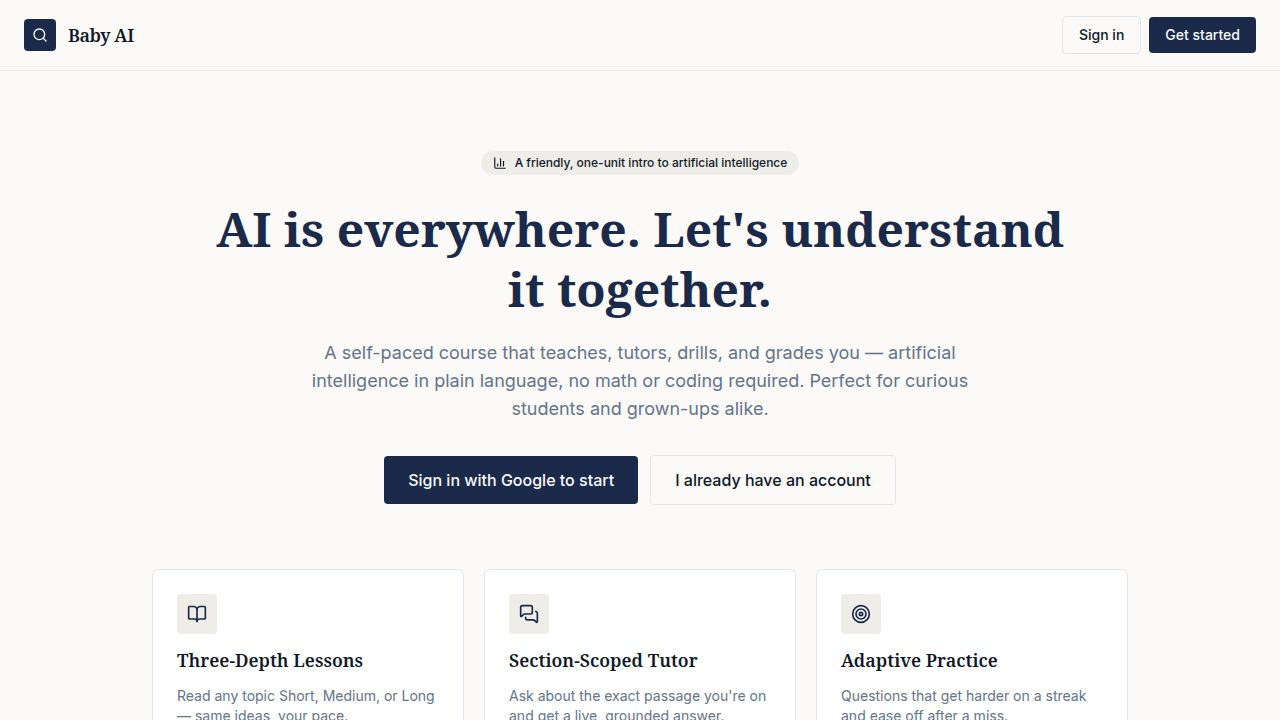
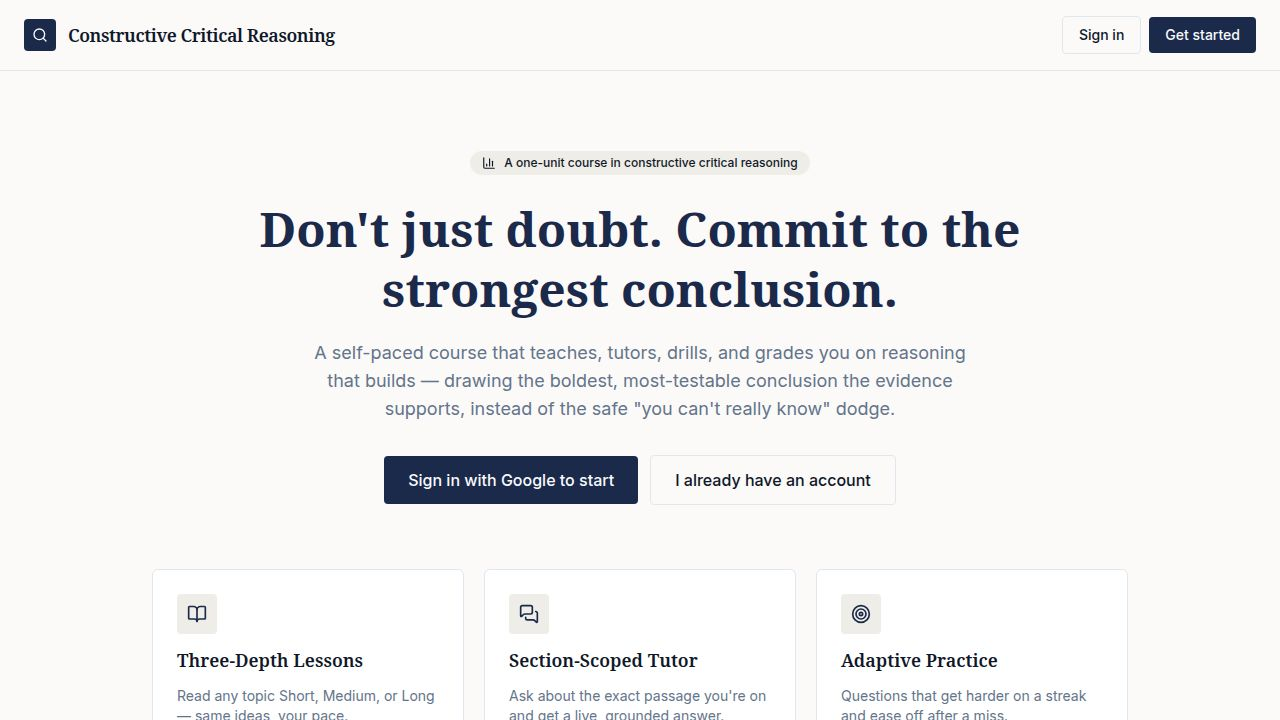
Published your App
Replit-Commit-Author: Deployment
Replit-Commit-Session-Id: 467d5729-93c7-433a-bc70-5a94cd285be4
Replit-Commit-Checkpoint-Type: full_checkpoint
Replit-Commit-Event-Id: c4dfff90-81ff-4677-9fb8-b391cf7ffa50
Replit-Commit-Screenshot-Url: https://storage.googleapis.com/screenshot-production-us-central1/ec074a15-560e-43bb-bbd8-61a434d20498/467d5729-93c7-433a-bc70-5a94cd285be4/MHw7Gyp
Replit-Commit-Deployment-Build-Id: fa62ca4a-7b2a-4fba-9be9-387c28d63195

Changed region(s): [[0.1562, 0.275, 0.8438, 0.5806], [0.375, 0.2139, 0.625, 0.2444], [0.0312, 0.0306, 0.2812, 0.0611]]

diff --git a/artifacts/qr-course/src/pages/LectureView.tsx b/artifacts/qr-course/src/pages/LectureView.tsx
@@ -2,6 +2,7 @@ import { useEffect, useMemo, useRef, useState } from "react";
 import { useQueryClient } from "@tanstack/react-query";
 import {
   useGetLecture,
+  useGetWeek,
   useRewriteLecture,
   useClearLectureRewrite,
   useAskTutor,
@@ -20,7 +21,7 @@ import { AnswerInput } from "@/components/AnswerInput";
 import { MathKeyboard, insertAtTextareaCursor } from "@/components/MathKeyboard";
 import { StarterQuestionCard } from "@/components/StarterQuestionCard";
 import { Button } from "@/components/ui/button";
-import { ArrowLeft, MessageSquare, Sparkles, Send, X, RefreshCw, CheckCircle2, XCircle, Wand2, RotateCcw } from "lucide-react";
+import { ArrowLeft, ArrowRight, MessageSquare, Sparkles, Send, X, RefreshCw, CheckCircle2, XCircle, Wand2, RotateCcw } from "lucide-react";
 
 type ChatMsg = { role: "user" | "tutor"; text: string };
 
@@ -28,6 +29,24 @@ export default function LectureView() {
   const params = useParams();
   const lectureId = Number(params.lectureId);
   const { data: lecture, isLoading } = useGetLecture(lectureId);
+
+  // Sibling lectures (for prev/next navigation within the unit)
+  const { data: week } = useGetWeek(lecture?.weekNumber ?? 0, {
+    query: {
+      enabled: lecture?.weekNumber != null,
+      queryKey: ["week", lecture?.weekNumber ?? 0],
+    },
+  });
+  const { prevLecture, nextLecture, navReady } = useMemo(() => {
+    const list = week?.lectures ?? [];
+    const idx = list.findIndex((l) => l.id === lectureId);
+    if (idx === -1) return { prevLecture: null, nextLecture: null, navReady: false };
+    return {
+      prevLecture: idx > 0 ? list[idx - 1] : null,
+      nextLecture: idx < list.length - 1 ? list[idx + 1] : null,
+      navReady: true,
+    };
+  }, [week?.lectures, lectureId]);
 
   // shared selected-text state (used by both Tutor and Practice)
   const [selectedText, setSelectedText] = useState("");
@@ -387,6 +406,67 @@ export default function LectureView() {
                   Tip: highlight any passage above to ask the tutor about it, or to generate practice problems specifically on what you selected.
                 </div>
               </div>
+
+              {/* Prev / next lecture navigation */}
+              {navReady && (
+              <nav className="mt-6 grid grid-cols-2 gap-3">
+                {prevLecture ? (
+                  <Link href={`/lectures/${prevLecture.id}`} className="block">
+                    <div
+                      className="group h-full rounded-lg border border-border bg-card hover:border-primary/50 transition-colors shadow-sm p-4 flex items-center gap-3"
+                      data-testid="link-prev-lecture"
+                    >
+                      <ArrowLeft className="w-4 h-4 text-muted-foreground group-hover:text-primary shrink-0" />
+                      <div className="min-w-0">
+                        <div className="text-[11px] font-medium uppercase tracking-wider text-muted-foreground">
+                          Previous
+                        </div>
+                        <div className="text-sm font-medium text-foreground truncate">
+                          {prevLecture.title}
+                        </div>
+                      </div>
+                    </div>
+                  </Link>
+                ) : (
+                  <div />
+                )}
+                {nextLecture ? (
+                  <Link href={`/lectures/${nextLecture.id}`} className="block">
+                    <div
+                      className="group h-full rounded-lg border border-border bg-card hover:border-primary/50 transition-colors shadow-sm p-4 flex items-center justify-end gap-3 text-right"
+                      data-testid="link-next-lecture"
+                    >
+                      <div className="min-w-0">
+                        <div className="text-[11px] font-medium uppercase tracking-wider text-muted-foreground">
+                          Next lecture
+                        </div>
+                        <div className="text-sm font-medium text-foreground truncate">
+                          {nextLecture.title}
+                        </div>
+                      </div>
+                      <ArrowRight className="w-4 h-4 text-muted-foreground group-hover:text-primary shrink-0" />
+                    </div>
+                  </Link>
+                ) : (
+                  <Link href={`/weeks/${lecture.weekNumber}`} className="block">
+                    <div
+                      className="group h-full rounded-lg border border-border bg-primary/5 hover:bg-primary/10 transition-colors shadow-sm p-4 flex items-center justify-end gap-3 text-right"
+                      data-testid="link-finish-unit"
+                    >
+                      <div className="min-w-0">
+                        <div className="text-[11px] font-medium uppercase tracking-wider text-muted-foreground">
+                          Last lecture
+                        </div>
+                        <div className="text-sm font-medium text-foreground truncate">
+                          Back to Unit {lecture.weekNumber}
+                        </div>
+                      </div>
+                      <ArrowRight className="w-4 h-4 text-muted-foreground group-hover:text-primary shrink-0" />
+                    </div>
+                  </Link>
+                )}
+              </nav>
+              )}
             </article>
           ) : (
             <div className="mt-8">Lecture not found.</div>